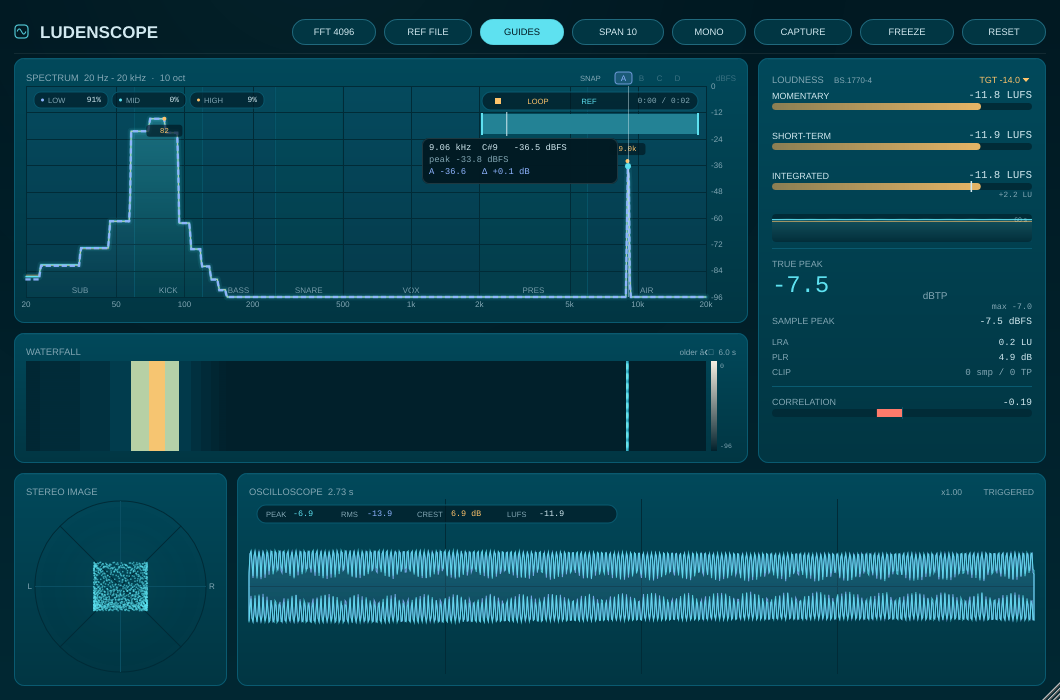
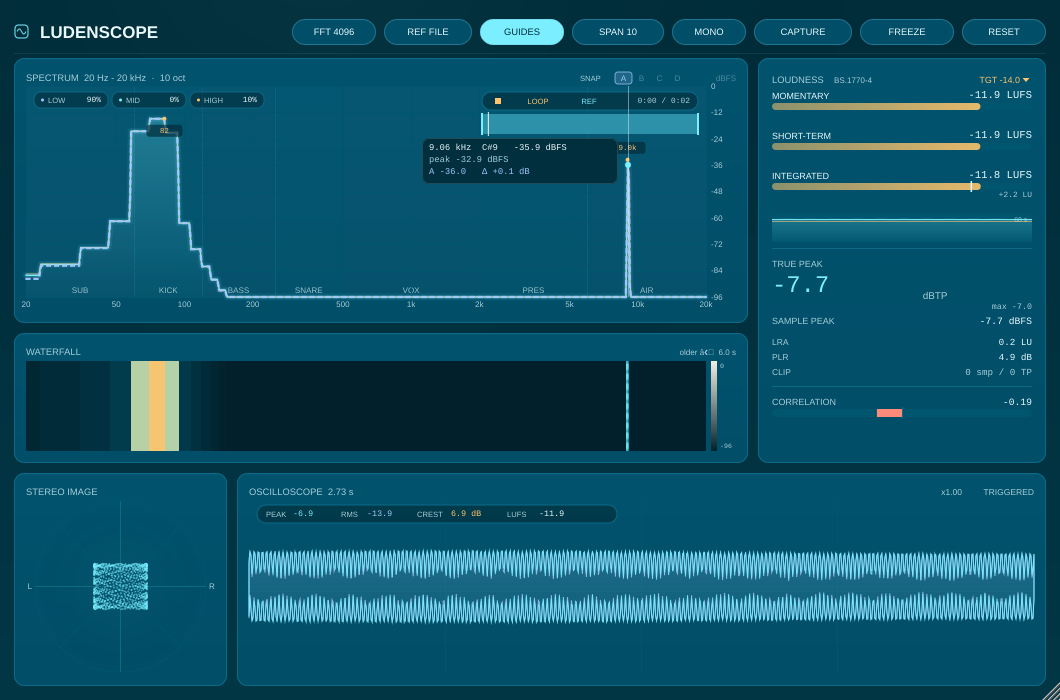
theme: panels exactly #014e68
The swatch colour is now the panel fill itself (panel #014e68, with a
five-point lighter top for the gradient). The background went a shade
darker so the cards still separate, borders and grid moved into the same
blue family, and text was brightened for contrast on the new surface.

diff --git a/Source/ui/Theme.h b/Source/ui/Theme.h
@@ -4,19 +4,19 @@
 
 namespace theme
 {
-    inline const juce::Colour bg         { 0xff011922 };
-    inline const juce::Colour bgBottom   { 0xff012833 };
-    inline const juce::Colour panel      { 0xff013643 };
-    inline const juce::Colour panelTop   { 0xff01495b };
-    inline const juce::Colour panelLine  { 0xff0a5a70 };
-    inline const juce::Colour grid       { 0xff012b37 };
-    inline const juce::Colour gridStrong { 0xff0a4f63 };
-    inline const juce::Colour text       { 0xffd2e9f0 };
-    inline const juce::Colour textDim    { 0xff83a7b4 };
-    inline const juce::Colour accent     { 0xff5ee1f0 };
+    inline const juce::Colour bg         { 0xff012d3a };
+    inline const juce::Colour bgBottom   { 0xff013746 };
+    inline const juce::Colour panel      { 0xff014e68 };
+    inline const juce::Colour panelTop   { 0xff01536e };
+    inline const juce::Colour panelLine  { 0xff0d6a86 };
+    inline const juce::Colour grid       { 0xff01566f };
+    inline const juce::Colour gridStrong { 0xff0d6a86 };
+    inline const juce::Colour text       { 0xffeaf8fb };
+    inline const juce::Colour textDim    { 0xffa9cdd8 };
+    inline const juce::Colour accent     { 0xff7beeff };
     inline const juce::Colour accent2    { 0xffffc46b };
-    inline const juce::Colour hot        { 0xffff7a6b };
-    inline const juce::Colour cold       { 0xff8fb4ff };
+    inline const juce::Colour hot        { 0xffff8a7a };
+    inline const juce::Colour cold       { 0xffa6c6ff };
 
     // Shared panel chrome: a near-invisible vertical gradient, a one-pixel
     // top highlight and a thin border. Keeps every view visually consistent.
